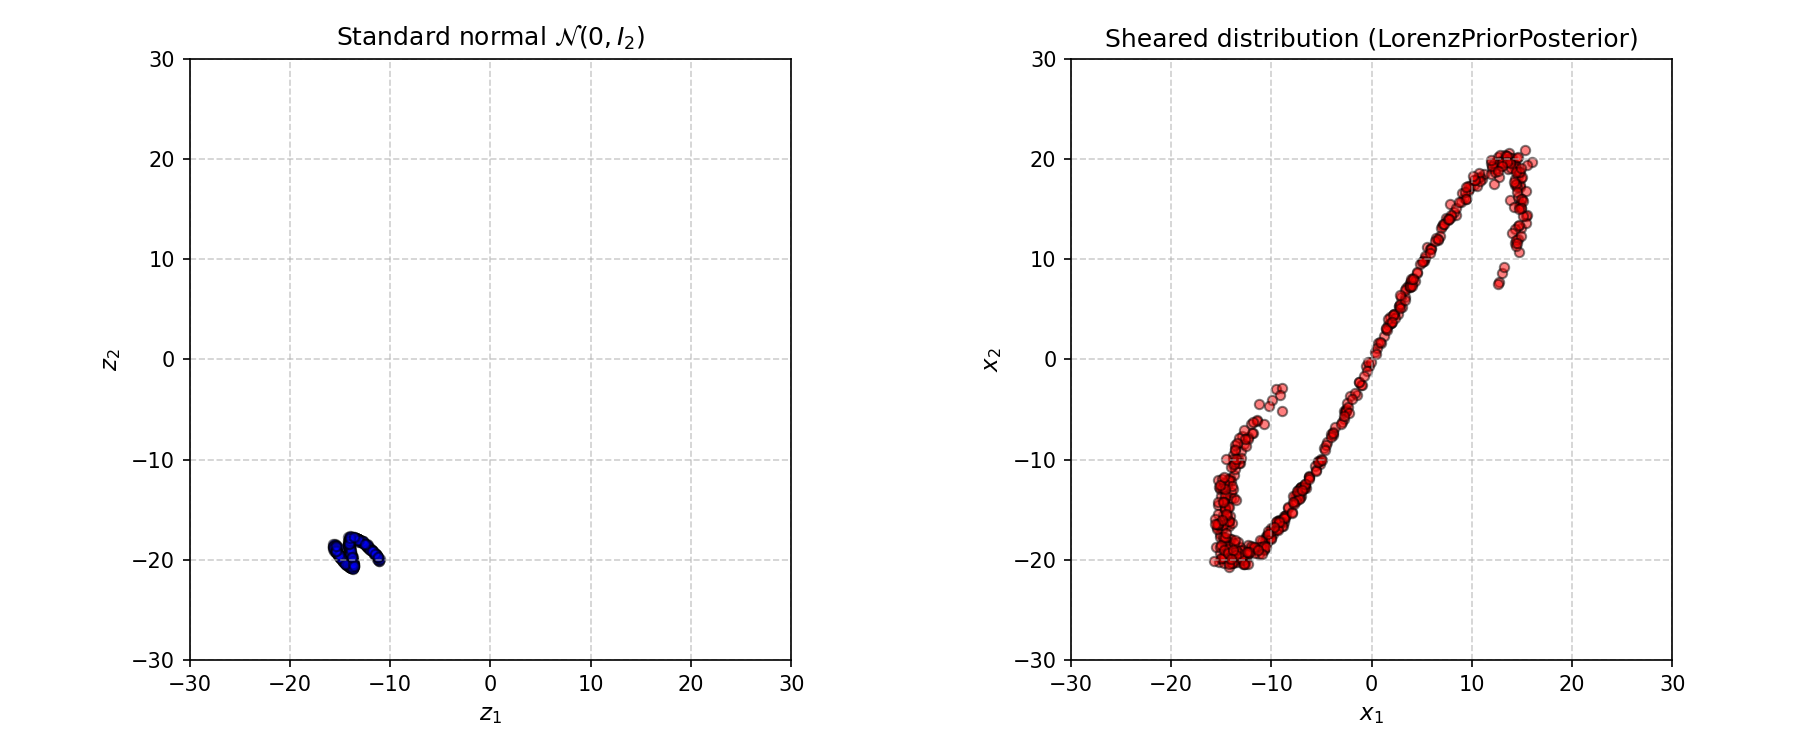
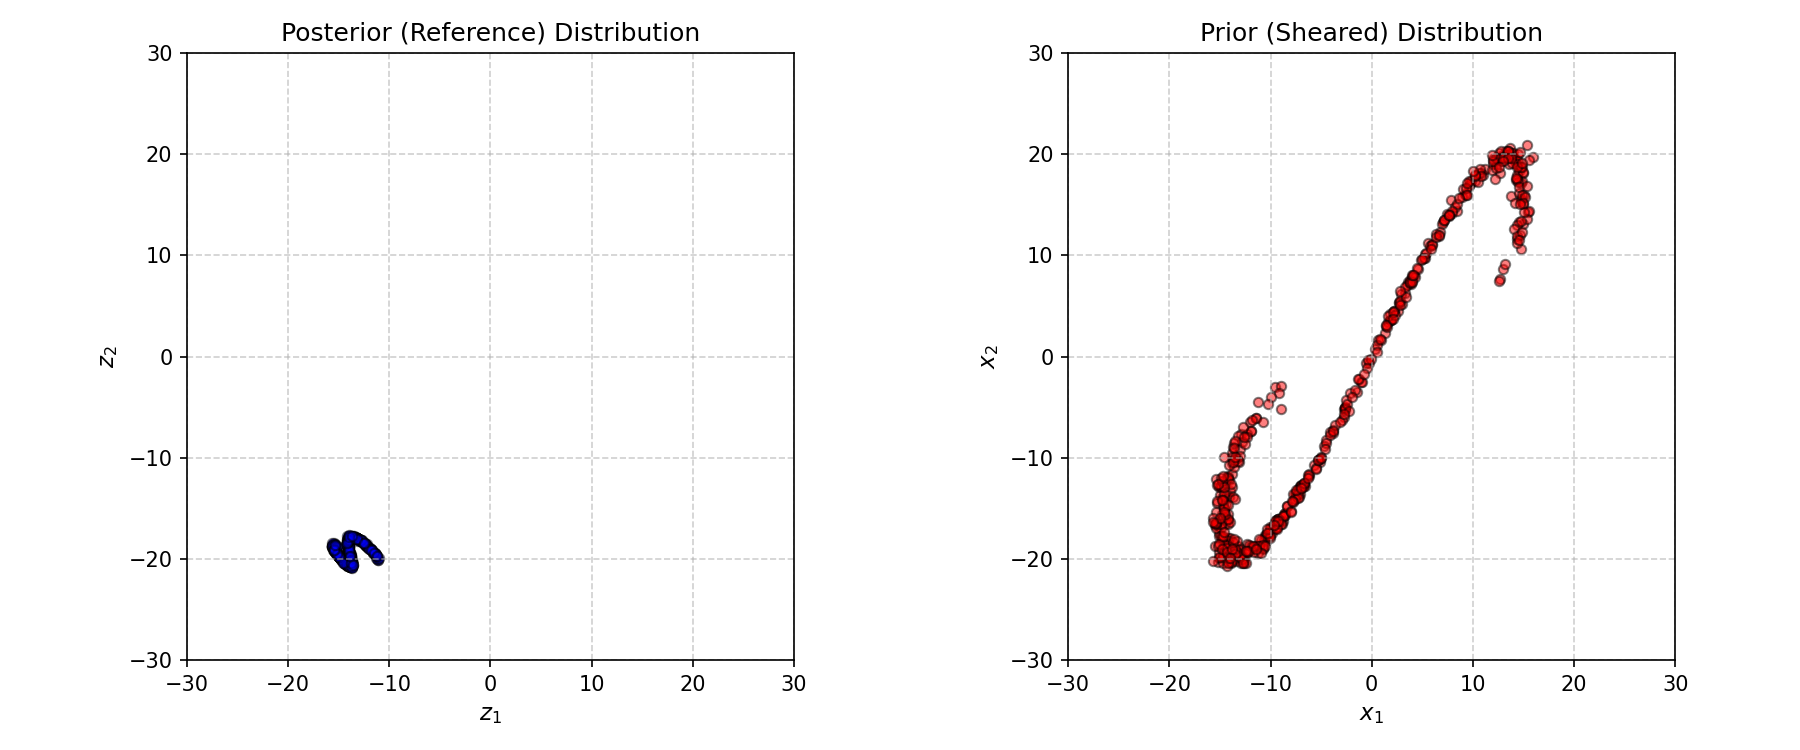
add configurable plot subtitles in the plotter API

diff --git a/utils/plotter.py b/utils/plotter.py
@@ -285,6 +285,7 @@ class DistributionPlotter(_BasePlotter):
         synthetic_samples: np.ndarray,
         mapped_samples: np.ndarray,
         solver_label: str,
+        panel_titles: tuple[str, str, str] | None = None,
         xlim: tuple[float, float] | None = None,
         ylim: tuple[float, float] | None = None,
         filename: str | None = None,
@@ -293,10 +294,17 @@ class DistributionPlotter(_BasePlotter):
         """Plot a 3-panel comparison for one mapped KR solver output."""
         fig, axes = plt.subplots(1, 3, figsize=(15, 5))
 
+        if panel_titles is None:
+            panel_titles = (
+                r"Reference normal $\mathcal{N}(0, I_2)$",
+                "Synthetic distribution",
+                f"Mapped with {solver_label}",
+            )
+
         panels = [
-            (normal_samples, r"Reference normal $\mathcal{N}(0, I_2)$", "tab:blue"),
-            (synthetic_samples, "Synthetic distribution", "tab:red"),
-            (mapped_samples, f"Mapped with {solver_label}", "tab:green"),
+            (normal_samples, panel_titles[0], "tab:blue"),
+            (synthetic_samples, panel_titles[1], "tab:red"),
+            (mapped_samples, panel_titles[2], "tab:green"),
         ]
 
         for ax, (samples, title, color) in zip(axes, panels):
@@ -316,6 +324,7 @@ class DistributionPlotter(_BasePlotter):
         synthetic_samples: np.ndarray,
         vanilla_mapped_samples: np.ndarray,
         fast_mapped_samples: np.ndarray,
+        panel_titles: tuple[str, str, str, str] | None = None,
         xlim: tuple[float, float] | None = None,
         ylim: tuple[float, float] | None = None,
         filename: str | None = None,
@@ -332,11 +341,19 @@ class DistributionPlotter(_BasePlotter):
         """
         fig, axes = plt.subplots(2, 2, figsize=(12, 10))
 
+        if panel_titles is None:
+            panel_titles = (
+                r"Reference normal $\mathcal{N}(0, I_2)$",
+                "Synthetic distribution",
+                "Mapped with vanilla Dykstra",
+                "Mapped with fast-forward Dykstra",
+            )
+
         panels = [
-            (normal_samples, r"Reference normal $\mathcal{N}(0, I_2)$", "tab:blue"),
-            (synthetic_samples, "Synthetic distribution", "tab:red"),
-            (vanilla_mapped_samples, "Mapped with vanilla Dykstra", "tab:green"),
-            (fast_mapped_samples, "Mapped with fast-forward Dykstra", "tab:purple"),
+            (normal_samples, panel_titles[0], "tab:blue"),
+            (synthetic_samples, panel_titles[1], "tab:red"),
+            (vanilla_mapped_samples, panel_titles[2], "tab:green"),
+            (fast_mapped_samples, panel_titles[3], "tab:purple"),
         ]
 
         for ax, (samples, title, color) in zip(axes.flatten(), panels):
@@ -357,6 +374,8 @@ class DistributionPlotter(_BasePlotter):
         seed: int,
         m: int,
         shear_label: str | None = None,
+        reference_title: str | None = None,
+        sheared_title: str | None = None,
         xlim: tuple[float, float] | None = None,
         ylim: tuple[float, float] | None = None,
         filename: str | None = None,
@@ -365,22 +384,27 @@ class DistributionPlotter(_BasePlotter):
         """Plot and save standard-normal and sheared sample distributions."""
         fig, (ax1, ax2) = plt.subplots(1, 2, figsize=(12, 5))
 
-        sheared_title = "Sheared distribution"
+        effective_reference_title = reference_title or r"Standard normal $\mathcal{N}(0, I_2)$"
+        effective_sheared_title = sheared_title or "Sheared distribution"
         filename_label = ""
-        if shear_label is not None and shear_label.strip() != "":
+        if (
+            sheared_title is None
+            and shear_label is not None
+            and shear_label.strip() != ""
+        ):
             cleaned_label = shear_label.strip()
-            sheared_title = f"Sheared distribution ({cleaned_label})"
+            effective_sheared_title = f"Sheared distribution ({cleaned_label})"
             filename_label = f"_SHEAR={cleaned_label}"
 
         self._draw_distribution_panel(
             ax=ax1, samples=reference_samples,
-            title=r"Standard normal $\mathcal{N}(0, I_2)$",
+            title=effective_reference_title,
             xlabel="$z_1$", ylabel="$z_2$", color="blue",
             xlim=xlim, ylim=ylim,
         )
         self._draw_distribution_panel(
             ax=ax2, samples=sheared_samples,
-            title=sheared_title,
+            title=effective_sheared_title,
             xlabel="$x_1$", ylabel="$x_2$", color="red",
             xlim=xlim, ylim=ylim,
         )

diff --git a/tests/test_dataset_parser_plotting.py b/tests/test_dataset_parser_plotting.py
@@ -66,6 +66,8 @@ def test_dataset_parser_and_distribution_plot_2d_subsample() -> None:
         seed=seed,
         m=num_particles,
         shear_label="LorenzPriorPosterior",
+        reference_title="Posterior (Reference) Distribution",
+        sheared_title="Prior (Sheared) Distribution",
         xlim=distribution_xlim,
         ylim=distribution_ylim,
         filename=filename,
